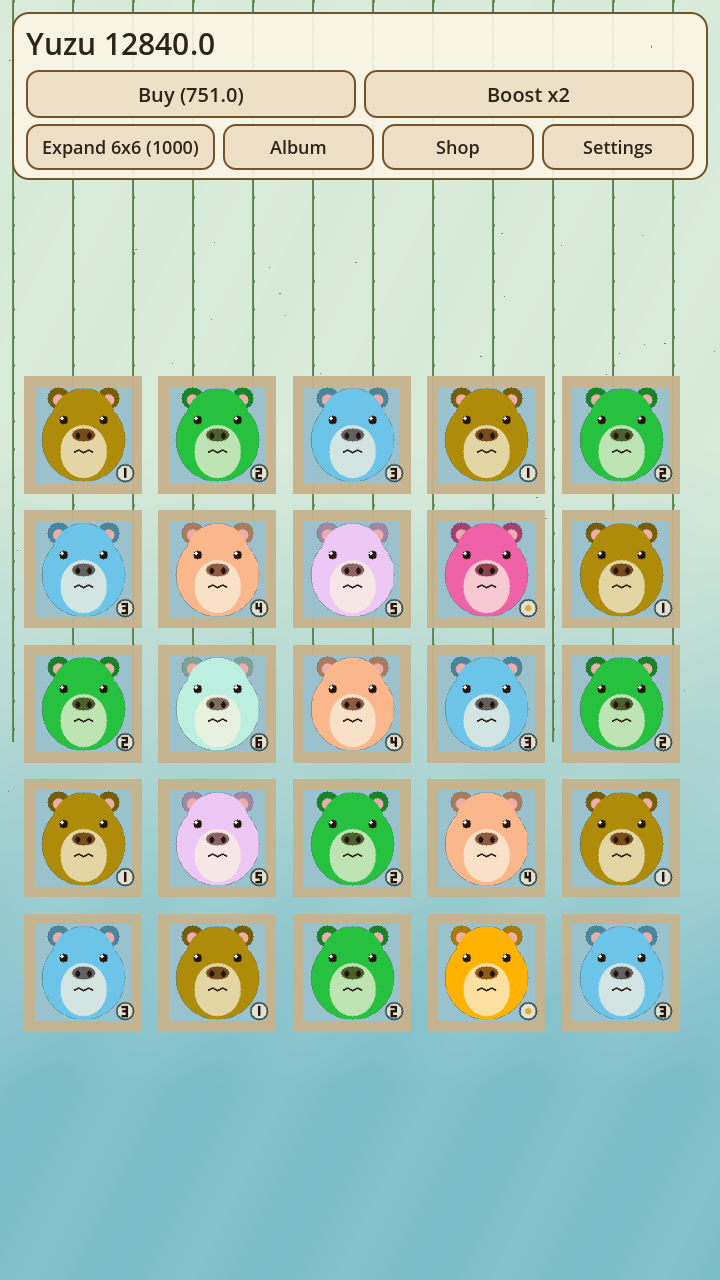
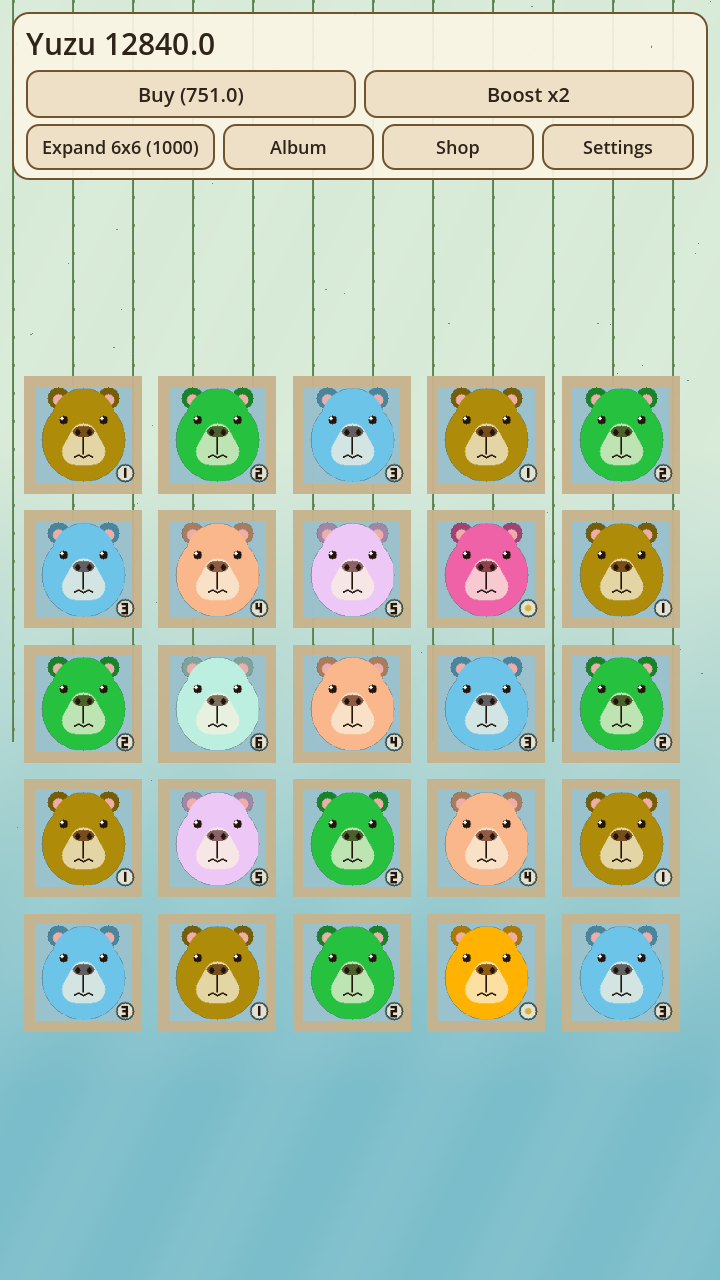
Refresh Capy Merge Spa product page for 1.0.1.
Match the live listing to gumdrop portraits, Kami, guests, Yuzu outfits, and the share sheet.

diff --git a/games/capy-merge-spa/index.html b/games/capy-merge-spa/index.html
@@ -6,7 +6,7 @@
     <title>Capy Merge Spa | Cozy Idle Merge Game</title>
     <meta
       name="description"
-      content="Capy Merge Spa is a cozy idle merge game — buy spa capybaras, merge them into cuter looks, earn Yuzu Coins, and soak in calm onsen vibes."
+      content="Capy Merge Spa is a cozy idle merge game — merge spa capybaras into six looks plus seasonal guests, earn Yuzu Coins, and soak in a pocket onsen."
     />
     <meta property="og:title" content="Capy Merge Spa" />
     <meta
@@ -91,6 +91,10 @@
 
       .feature-list li {
         margin-bottom: 0.5rem;
+      }
+
+      .game-badge + .game-badge {
+        margin-left: 0.4rem;
       }
 
       .game-badge {
@@ -257,6 +261,7 @@
             </p>
             <p>
               <span class="game-badge">Free · iOS · Casual / Idle</span>
+              <span class="game-badge">Version 1.0.1</span>
             </p>
             <div class="hero-actions">
               <a
@@ -287,12 +292,29 @@
         </div>
       </section>
 
+      <section class="container section">
+        <div class="section-intro">
+          <h2>What’s new in 1.0.1</h2>
+        </div>
+        <div class="panel">
+          <ul class="feature-list">
+            <li>New merge tier: Level 6 Onsen Kami</li>
+            <li>Seasonal guests — sakura, yukimi, maple, and golden</li>
+            <li>Share spa cards with the iOS share sheet</li>
+            <li>Seasonal outfits for Yuzu Coins (Cherry Blossom, Snowy Onsen, Autumn Leaf)</li>
+            <li>Optional Yuzu snack ads, capped at 3 per day</li>
+            <li>Album silhouettes until you unlock a look</li>
+            <li>Capys blink, breathe, and wear gumdrop faces with rounded snouts</li>
+          </ul>
+        </div>
+      </section>
+
       <section id="gallery" class="container section">
         <h2>In the spa</h2>
         <div class="phone-gallery">
           <figure class="phone">
             <img
-              src="images/01-gameplay-grid.png"
+              src="images/01-gameplay-grid.png?v=20260828"
               width="720"
               height="1280"
               alt="Gameplay screenshot of the hot spring merge grid"
@@ -302,7 +324,7 @@
           </figure>
           <figure class="phone">
             <img
-              src="images/02-outfit-album.png"
+              src="images/02-outfit-album.png?v=20260828"
               width="720"
               height="1280"
               alt="Outfit Album showing six spa looks and seasonal guests"
@@ -312,7 +334,7 @@
           </figure>
           <figure class="phone">
             <img
-              src="images/03-shop.png"
+              src="images/03-shop.png?v=20260828"
               width="720"
               height="1280"
               alt="Cozy Cosmetics shop with seasonal Yuzu skins"
@@ -322,7 +344,7 @@
           </figure>
           <figure class="phone">
             <img
-              src="images/06-capy-detail.png"
+              src="images/06-capy-detail.png?v=20260828"
               width="720"
               height="1280"
               alt="Long-press detail card for Onsen Kami"
@@ -332,7 +354,7 @@
           </figure>
           <figure class="phone">
             <img
-              src="images/07-share-moment.png"
+              src="images/07-share-moment.png?v=20260828"
               width="720"
               height="1280"
               alt="Share this moment prompt"
@@ -342,7 +364,7 @@
           </figure>
           <figure class="phone">
             <img
-              src="images/08-share-card.png"
+              src="images/08-share-card.png?v=20260828"
               width="720"
               height="1280"
               alt="Shareable spa card of Onsen Kami"
@@ -352,7 +374,7 @@
           </figure>
           <figure class="phone">
             <img
-              src="images/05-offline-relax.png"
+              src="images/05-offline-relax.png?v=20260828"
               width="720"
               height="1280"
               alt="Offline earnings Double Relax dialog"
@@ -362,7 +384,7 @@
           </figure>
           <figure class="phone">
             <img
-              src="images/04-settings.png"
+              src="images/04-settings.png?v=20260828"
               width="720"
               height="1280"
               alt="Accessibility settings with font scale and reduce motion"
@@ -382,7 +404,9 @@
             <h3>Merge spa friends</h3>
             <p>
               Buy Level&nbsp;1 capybaras with Yuzu Coins, then drag matching levels together to
-              unlock six spa looks — from Capy Lemon to Onsen Kami — plus seasonal guests.
+              unlock six spa looks — from Capy Lemon to mint Onsen Kami — plus sakura, yukimi,
+              maple, and golden guests. Gumdrop faces, rounded snouts, blinks, and the occasional
+              breath.
             </p>
           </article>
           <article class="offer-item">
@@ -395,15 +419,18 @@
           <article class="offer-item">
             <h3>Optional boosts</h3>
             <p>
-              Watch a short rewarded ad for Spa Booster (2× income for a few minutes) or Double
-              Relax to double offline earnings — never required to progress.
+              Watch a short rewarded ad for Spa Booster (2× income for a few minutes), Double
+              Relax to double offline earnings, or a Yuzu snack in the shop (capped at 3 per day) —
+              never required to progress.
             </p>
           </article>
           <article class="offer-item">
             <h3>Cozy polish</h3>
             <p>
-              Lo-fi vibes, gentle haptics, Outfit Album, shareable spa cards, and accessibility
-              options (font scale, high contrast, reduce motion, music toggle).
+              Lo-fi vibes, gentle haptics, Album silhouettes until you unlock a look, seasonal
+              outfits for Yuzu (Cherry Blossom, Snowy Onsen, Autumn Leaf), native share-sheet spa
+              cards, and accessibility options (font scale, high contrast, reduce motion, music
+              toggle).
             </p>
           </article>
         </div>
@@ -418,7 +445,7 @@
             <li>Tap <strong>Buy</strong> to place a starter capy on the hot spring grid</li>
             <li>Drag two of the <strong>same level</strong> together to merge into the next tier</li>
             <li>Collect Yuzu Coins over time — reinvest to buy more friends or expand the spa</li>
-            <li>Open the <strong>Album</strong> to track unlocked looks; long-press a capy to share</li>
+            <li>Open the <strong>Album</strong> to track unlocked looks (silhouettes until you find them); long-press a capy to share via the system sheet</li>
           </ol>
         </div>
       </section>
@@ -430,7 +457,7 @@
         <div class="panel">
           <ul class="feature-list">
             <li><strong>Developer:</strong> Core Logic LLC</li>
-            <li><strong>Platform:</strong> iOS (Android planned)</li>
+            <li><strong>Platform:</strong> iPhone &amp; iPad (Android planned)</li>
             <li>
               <strong>App Store:</strong>
               <a
@@ -440,7 +467,8 @@
                 >Download on the App Store</a
               >
             </li>
-            <li><strong>Price:</strong> Free, with optional rewarded ads</li>
+            <li><strong>Version:</strong> 1.0.1</li>
+            <li><strong>Price:</strong> Free, with optional rewarded ads (no real-money IAP)</li>
             <li><strong>Age:</strong> General audiences / 4+</li>
             <li><strong>Bundle ID:</strong> <code>cc.corelogic.capymeregespa</code></li>
           </ul>

diff --git a/games/capy-merge-spa/support.html b/games/capy-merge-spa/support.html
@@ -96,7 +96,7 @@
         <p>
           <img
             class="support-phone"
-            src="images/04-settings.png"
+            src="images/04-settings.png?v=20260828"
             width="720"
             height="1280"
             alt="Settings with accessibility toggles"
@@ -111,12 +111,12 @@
             app data.
           </li>
           <li>
-            <strong>Ads?</strong> Rewarded ads for Spa Booster and Double Relax are optional. You
-            can play without watching them. Debug builds may show Google test ads.
+            <strong>Ads?</strong> Rewarded ads for Spa Booster, Double Relax, and a Yuzu snack
+            (shop, capped at 3 per day) are optional. You can play without watching them.
           </li>
           <li>
-            <strong>Purchases?</strong> Version 1.0 has no paid in-app purchases. Cosmetics are
-            unlocked through play / equip flows only.
+            <strong>Purchases?</strong> There are no real-money in-app purchases. Seasonal shop
+            skins (Cherry Blossom, Snowy Onsen, Autumn Leaf) cost Yuzu Coins earned in play.
           </li>
           <li>
             <strong>Sound or haptics?</strong> Open Settings in the app to toggle music, adjust
@@ -135,7 +135,8 @@
         <h2>App details</h2>
         <ul>
           <li>Developer: Core Logic LLC</li>
-          <li>Platform: iOS</li>
+          <li>Platform: iPhone &amp; iPad</li>
+          <li>Version: 1.0.1</li>
           <li>Price: Free, with optional rewarded ads</li>
           <li>Marketing site: <a href="index.html">Capy Merge Spa home</a></li>
         </ul>

diff --git a/games/index.html b/games/index.html
@@ -115,8 +115,8 @@
             <div>
               <h2>Capy Merge Spa</h2>
               <p>
-                A cozy idle merge game — buy spa capybaras, merge them into cuter looks, and soak in
-                calm onsen vibes.
+                A cozy idle merge game — six spa looks plus seasonal guests, gumdrop portraits, and
+                a pocket onsen that earns while you’re away.
               </p>
             </div>
             <span class="hub-arrow" aria-hidden="true">→</span>

diff --git a/CHANGES.md b/CHANGES.md
@@ -2,6 +2,11 @@
 
 ## Unreleased
 
+### feat/capy-1.0.1-product-page
+
+- Updated the Capy Merge Spa product page for 1.0.1 (Kami, guests, share sheet, Yuzu outfits, snack ads, gumdrop portraits).
+- Refreshed the gallery and support FAQ with new studio captures.
+
 ### captionbake/timing-editor-and-free-font
 
 - CaptionBake: free styling is Helvetica (size, layout, and colors stay free); Pro unlocks the system font list.
